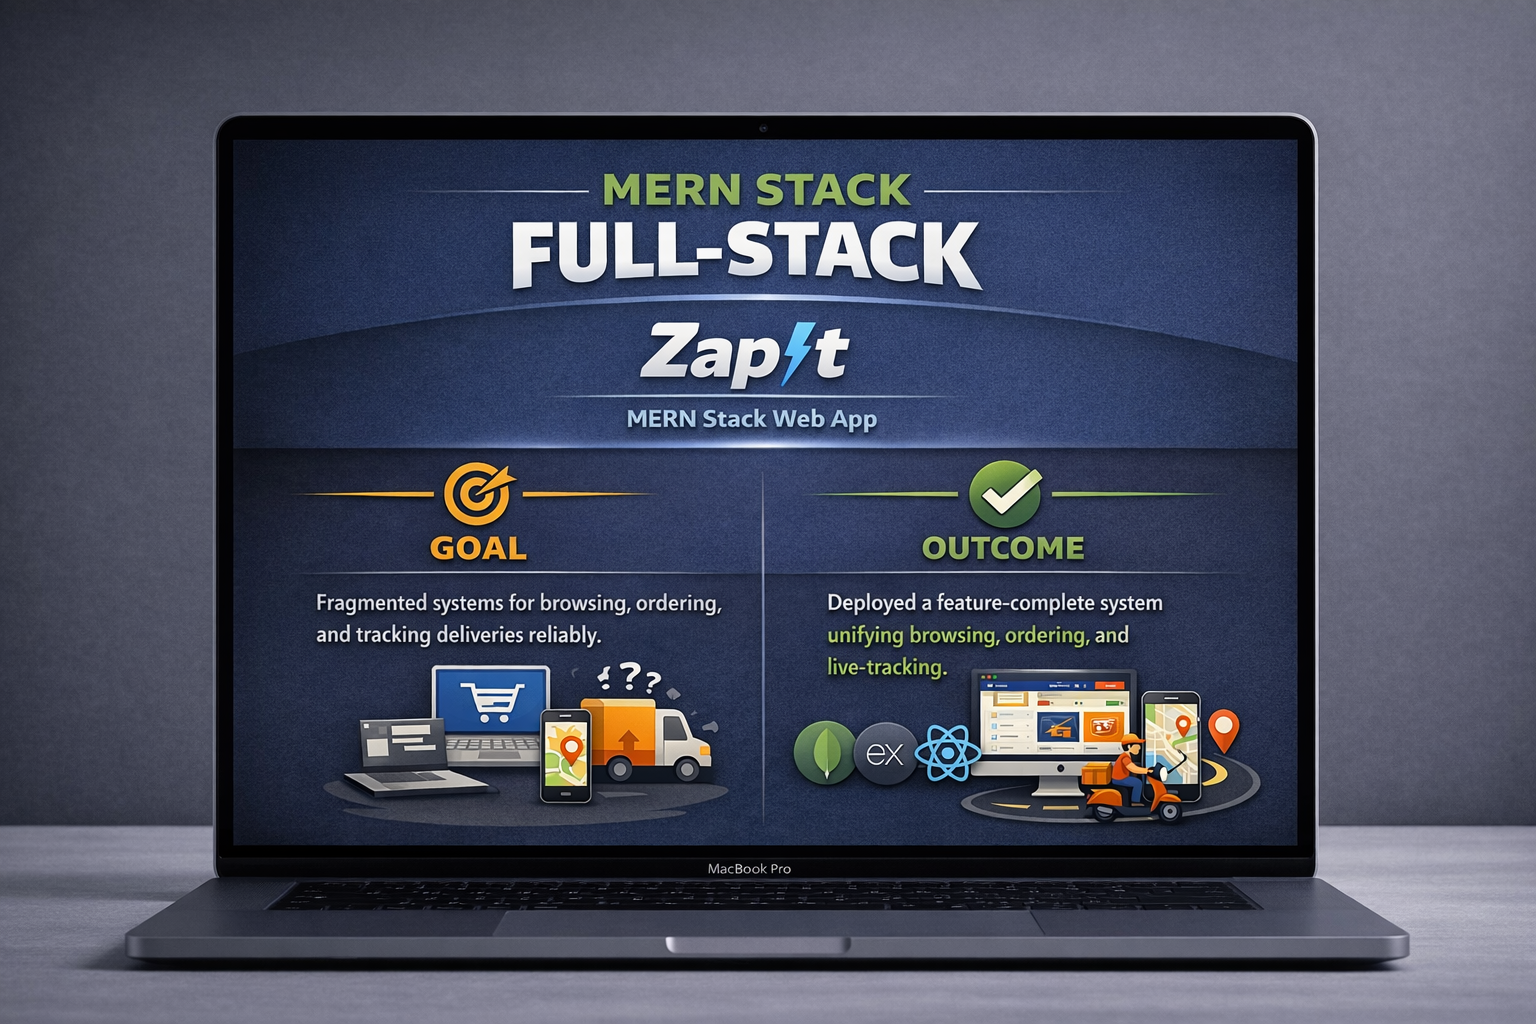
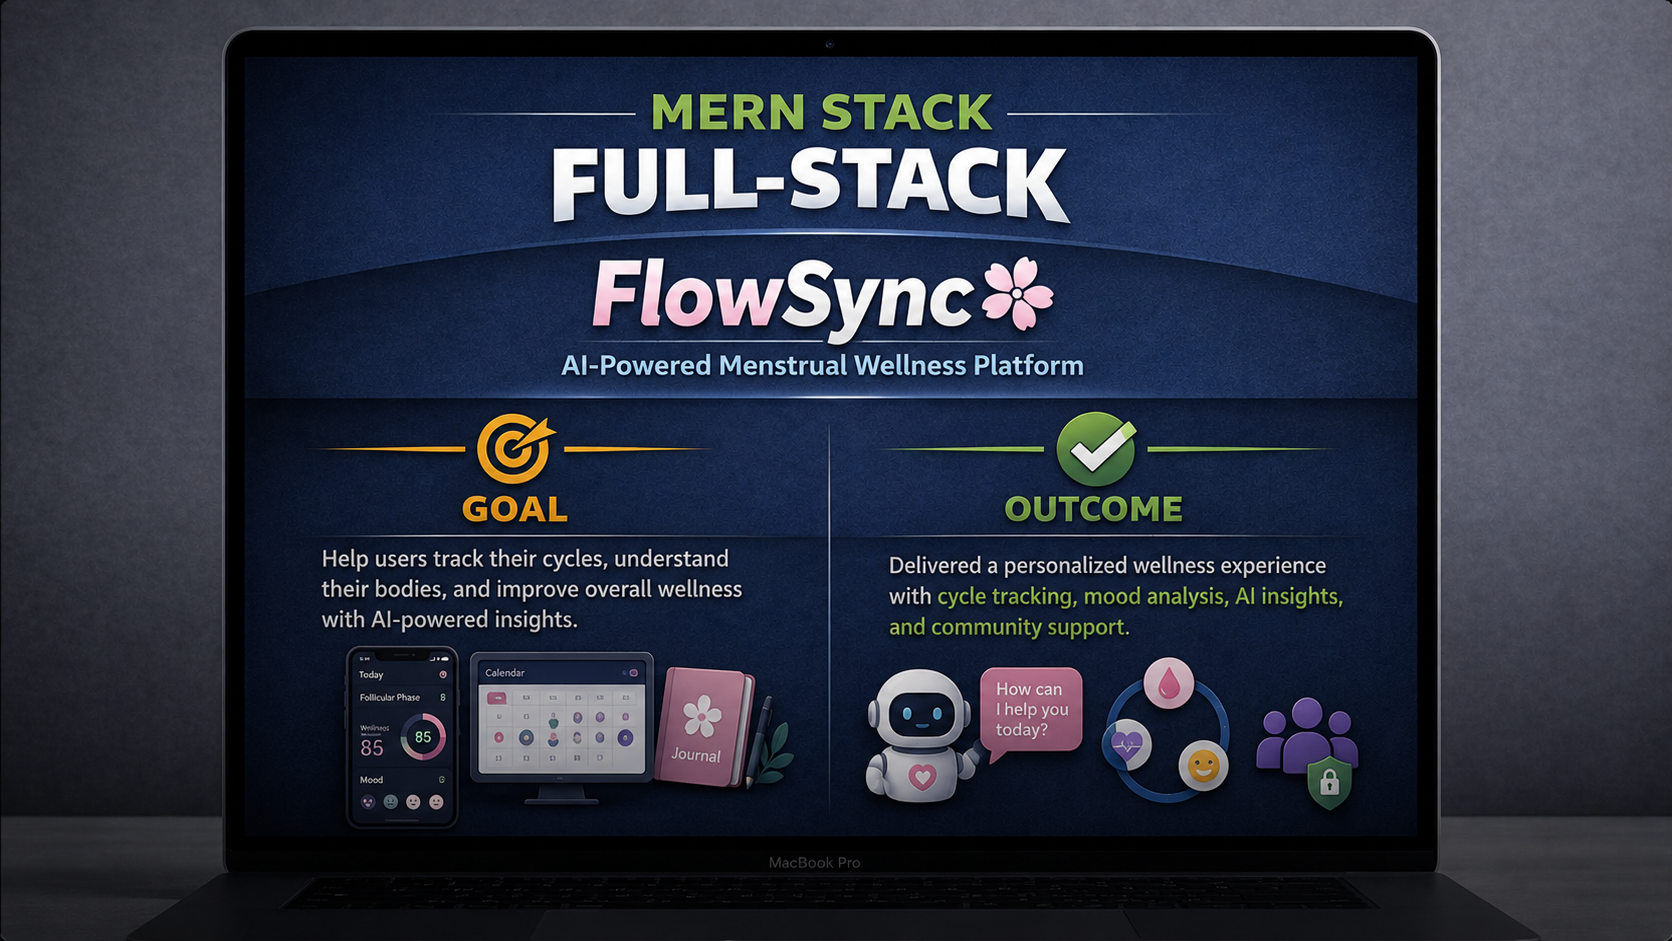
feat: update portfolio projects and case study covers

diff --git a/src/data/projects.js b/src/data/projects.js
@@ -44,6 +44,63 @@ export const projects = [
     tags: ["UI/UX Design", "Figma", "Lead Management", "Prototyping"]
   },
   {
+    title: "QueueLess",
+    subtitle: "AI-Powered Smart Campus Cafeteria & Queue Management Platform",
+    description: "A full-stack smart cafeteria platform that digitizes food ordering, queue tracking, and campus vendor operations.",
+    overview: "QueueLess is a full-stack smart campus cafeteria platform that digitizes food ordering, queue management, and vendor operations. Students can pre-order meals, monitor live queue positions, and receive pickup notifications, while vendors gain access to real-time analytics and AI-powered demand forecasting.",
+    role: "Full Stack Developer & Product Designer",
+    timeline: "2026",
+    problem: "Campus cafeterias often experience long queues, inefficient order handling, food wastage, and poor visibility into crowd levels. Students lose valuable time waiting, while vendors struggle to predict demand during peak hours.",
+    process: "Designed and developed a full-stack web application with a modern React frontend and scalable Node.js backend. Built a real-time queue tracking system using Socket.io, integrated MongoDB for persistent storage, and implemented an AI prediction module to forecast rush hours and food demand based on historical ordering patterns.",
+    outcome: "QueueLess reduces cafeteria waiting time, improves operational efficiency, minimizes food wastage, and creates a smoother campus dining experience through intelligent automation.",
+    learnings: [
+      "Built scalable real-time systems using Socket.io.",
+      "Designed efficient queue management logic.",
+      "Integrated AI prediction into practical workflows.",
+      "Improved dashboard architecture and API design."
+    ],
+    features: [
+      "Real-time digital queue tracking",
+      "Online food ordering & token generation",
+      "Live order status updates",
+      "Vendor analytics dashboard",
+      "AI-powered demand prediction",
+      "Smart inventory insights"
+    ],
+    image: "/images/work3.png",
+    tags: ["React", "Node.js", "Express.js", "MongoDB", "Socket.io", "Python", "Figma"],
+    github: "https://github.com/rairoshni2005/QueueLess-Smart-Canteen-System"
+  },
+  {
+    title: "FlowSync",
+    subtitle: "Premium AI-Powered Menstrual Wellness Platform",
+    description: "A full-stack AI wellness platform for cycle insights, mood tracking, privacy-first health support, and personalized guidance.",
+    overview: "FlowSync is a full-stack AI-powered menstrual wellness platform that goes beyond period tracking by helping users understand their bodies through personalized cycle predictions, mood tracking, wellness insights, AI guidance, and privacy-focused health management.",
+    role: "Full Stack Developer & Product Designer",
+    timeline: "2026",
+    problem: "Most menstrual tracking apps only provide reminders and cycle dates without offering meaningful health insights, emotional tracking, or personalized wellness guidance. Users need a more intelligent and holistic approach to menstrual health.",
+    process: "Designed and developed a complete wellness ecosystem using React, Node.js, MongoDB, FastAPI, and Python-based AI services. Created a clean user experience focused on wellness tracking while implementing intelligent prediction models, AI-powered health assistance, and privacy-first community features.",
+    outcome: "FlowSync transforms menstrual tracking into an intelligent wellness platform that empowers users with personalized health insights, emotional awareness, and AI-driven recommendations while maintaining privacy and accessibility.",
+    learnings: [
+      "Built AI-assisted healthcare workflows",
+      "Designed secure wellness data architecture",
+      "Integrated FastAPI with a MERN application",
+      "Improved product thinking for healthcare experiences"
+    ],
+    features: [
+      "AI Body Twin wellness insights",
+      "Smart menstrual cycle prediction",
+      "Mood & symptom tracking",
+      "AI wellness companion",
+      "Wellness journal",
+      "Anonymous support community",
+      "Partner wellness sharing"
+    ],
+    image: "/images/work4.png",
+    tags: ["React", "Node.js", "Express.js", "MongoDB", "FastAPI", "Python", "Tailwind CSS", "Figma"],
+    github: "https://github.com/rairoshni2005/FlowSync-Premium-AI-Menstrual-Wellness-Platform"
+  },
+  {
     title: "ZapIt",
     subtitle: "Hyperlocal Delivery Platform",
     overview: "A comprehensive Dunzo-like hyperlocal delivery application designed and developed to replicate a real-world delivery app experience. It serves as a seamless full-stack web application bridging users and delivery partners.",
@@ -63,7 +120,7 @@ export const projects = [
       "Payment gateway integration supporting UPI, Cards, and COD.",
       "Comprehensive Delivery partner management dashboard."
     ],
-    image: "/images/work4.png",
+    image: "/images/work5.png",
     tags: ["MERN Stack", "Node.js", "MongoDB", "React", "Firebase"],
     github: "https://github.com/rairoshni2005/ZapIt-WebApp"
   },
@@ -87,30 +144,8 @@ export const projects = [
       "Persistent Data Storage utilizing MongoDB.",
       "Interactive, chronological Calendar Task View."
     ],
-    image: "/images/work5.png",
+    image: "/images/work6.png",
     tags: ["Flutter", "Dart", "MongoDB", "Mobile Dev"],
     github: "https://github.com/rairoshni2005/flutter-todo-app"
-  },
-  {
-    title: "Food Order App",
-    subtitle: "Full-Stack Dev | Flutter + MERN Stack",
-    overview: "Developed a scalable full-stack food ordering platform designed to address inefficient ordering workflows.",
-    role: "Full-Stack Developer",
-    timeline: "2023",
-    problem: "Fragmented ordering systems with poor tracking and inefficient workflows.",
-    process: "Engineered a robust client-server architecture using Flutter for the frontend and Node.js/Express with JWT authentication for secure backend operations.",
-    outcome: "Deployed a fully functional system that successfully unified browsing, secure ordering, and real-time tracking.",
-    learnings: [
-       "Gained intensive full-stack development experience aligning Flutter with MERN.",
-       "Built secure JWT-based authentication flows."
-    ],
-    features: [
-       "Secure JWT Authentication",
-       "Real-time tracking of orders",
-       "Cross-platform Flutter frontend"
-    ],
-    image: "/images/work3.png",
-    tags: ["Flutter", "MERN Stack", "Node.js", "MongoDB"],
-    github: "https://github.com/rairoshni2005/Online-Food-Ordering-System"
   }
 ];

diff --git a/src/components/About.jsx b/src/components/About.jsx
@@ -33,7 +33,7 @@ const About = () => {
               className="w-full h-full object-cover relative z-0 transition-all duration-[1500ms] ease-[cubic-bezier(0.16,1,0.3,1)] group-hover:scale-105"
             />
           </div>
-
+                                                                 
           {/* Premium Rotating Badge */}
           <motion.div 
             className="absolute -bottom-8 -right-8 w-44 h-44 bg-[#0a0a0a]/90 backdrop-blur-2xl border border-white/10 shadow-[0_0_40px_rgba(var(--color-accent-rgb),0.3)] rounded-full flex items-center justify-center p-6 z-30 hidden lg:flex cursor-default"
